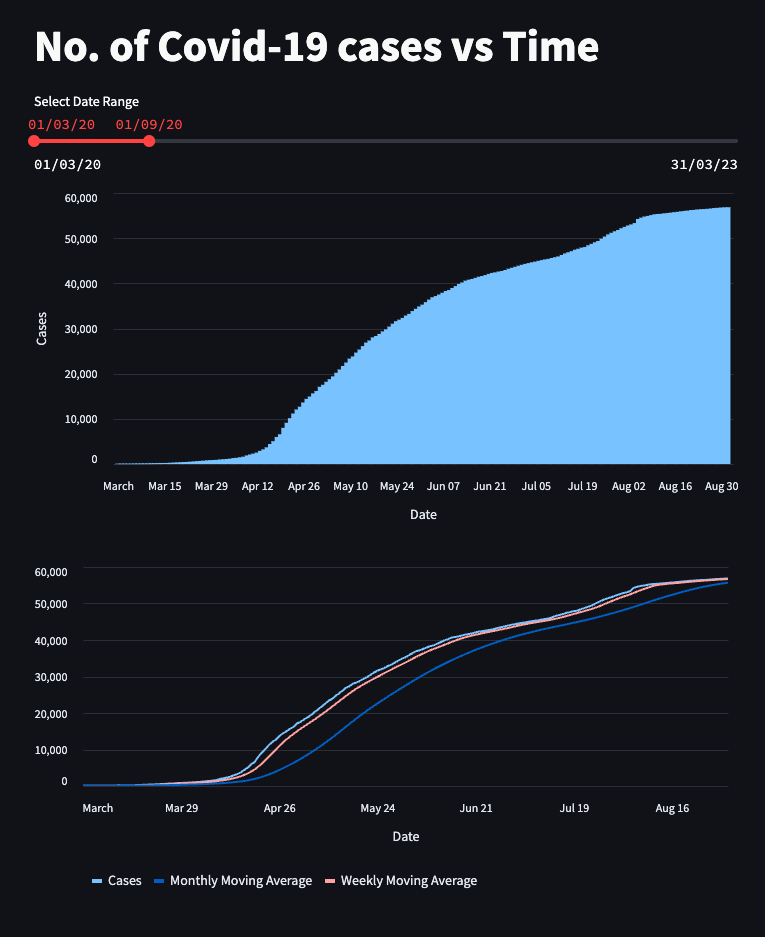
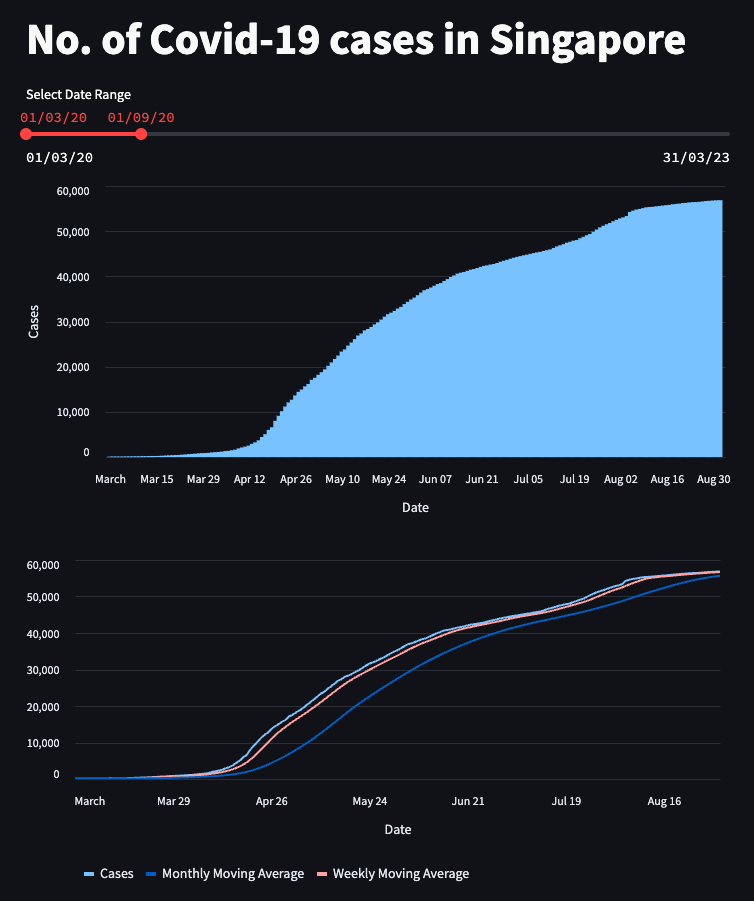
Mod screenshot and streamlit title for charts

diff --git a/charts-api/streamlit.py b/charts-api/streamlit.py
@@ -18,7 +18,7 @@ def filter_data(df, time_range):
 if __name__ == '__main__':
     df = read_json('covid_cases.json')
 
-    st.title('No. of Covid-19 cases vs Time')
+    st.title('No. of Covid-19 cases in Singapore')
 
     time_range = st.slider(
         label="Select Date Range",
